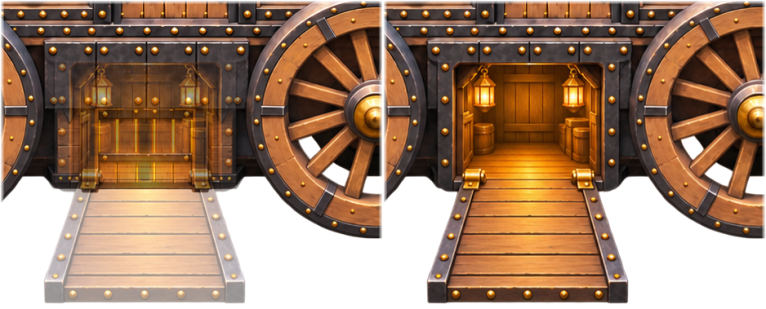
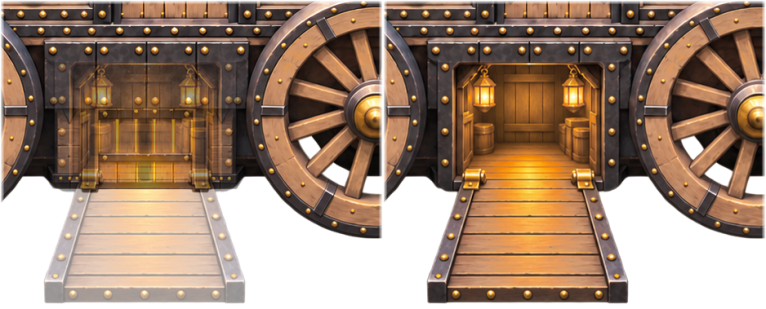
Tone down the war wagon's orange wood
The repainted oak was the most saturated thing on the field, hotter than
the troops beside it. The cutter now takes 30% of the saturation out of
the orange-brown wood on the base wagon, its door, damage and overlays,
and the guild skin, leaving the cloth, iron and lamp glow.

diff --git a/art/royal/caravan_cut.py b/art/royal/caravan_cut.py
@@ -126,6 +126,21 @@ def difference(edit, base, threshold=.11):
 
 # ------------------------------------------------------------------ the wagon
 
+WOOD_CALM = .3              # how far the orange wood's saturation is pulled down (it outshone the troops beside it)
+CALMED = {"war_wagon", "war_wagon_skin_guild"}      # the plates in that oak; the other skins keep their own colours
+
+
+def calm(rgba):
+    """Takes a little saturation out of the orange-brown wood, leaving the teal cloth, the iron and the lamp glow."""
+    hsv = cv2.cvtColor(np.clip(rgba[..., :3], 0, 1).astype(np.float32), cv2.COLOR_RGB2HSV)   # hue in degrees
+    hue = np.clip(1 - np.abs(hsv[..., 0] - 24) / 20, 0, 1)                  # full at orange, gone by red and yellow
+    glow = np.clip((hsv[..., 2] - .82) / .13, 0, 1)                         # bright lamp light keeps its colour
+    hsv[..., 1] *= 1 - WOOD_CALM * hue * (1 - glow)
+    out = rgba.copy()
+    out[..., :3] = cv2.cvtColor(hsv, cv2.COLOR_HSV2RGB)
+    return out
+
+
 def wagon_meta(size, door):
     h, w = size
     points = WAGON_POINTS
@@ -181,6 +196,8 @@ def cut_wagon():
     meta["centre"] = centre
 
     def save(name, image, door_image):
+        if name in CALMED:
+            image, door_image = calm(image), calm(door_image)
         write(BATTLE / f"{name}.png", plate_size(image))
         opened = door_image[y0:y1, x0:x1].copy()
         # Feather the strip's edges into the plate under it, so its rectangle never shows.
@@ -202,13 +219,13 @@ def cut_wagon():
 
     damaged = clean(register(read(GEN / "wagon_damaged.png"), base, "damaged"))
     save("war_wagon", base, door_edit)
-    write(BATTLE / "war_wagon_damaged.png", plate_size(damaged))
+    write(BATTLE / "war_wagon_damaged.png", plate_size(calm(damaged)))
 
     # Overlays shared by every skin: only what the edit added, at the edit's colour.
     for name in ("armour", "snow", "mud"):
         edit = clean(register(read(GEN / f"wagon_{name}.png"), base, name))
         mask = difference(edit, base, .09 if name == "snow" else .12)
-        overlay = edit.copy()
+        overlay = calm(edit)
         overlay[..., 3] = edit[..., 3] * mask
         write(BATTLE / f"war_wagon_{name}.png", plate_size(overlay))
     # Armour arrives by level: the wheels first, then the lower hull, then the body (rows of the plate).
@@ -224,7 +241,8 @@ def cut_wagon():
         door_image = clean(register(read(GEN / f"{skin}_door.png"), image, skin + " door")) if (GEN / f"{skin}_door.png").exists() else door_edit
         save(f"war_wagon_{skin}", image, door_image)
         if (GEN / f"{skin}_damaged.png").exists():
-            write(BATTLE / f"war_wagon_{skin}_damaged.png", plate_size(clean(register(read(GEN / f"{skin}_damaged.png"), image, skin + " damaged"))))
+            worn = clean(register(read(GEN / f"{skin}_damaged.png"), image, skin + " damaged"))
+            write(BATTLE / f"war_wagon_{skin}_damaged.png", plate_size(calm(worn) if f"war_wagon_{skin}" in CALMED else worn))
     print("wagon:", json.dumps({k: meta[k] for k in ("anchor", "width", "door", "centre")}))
 
 
